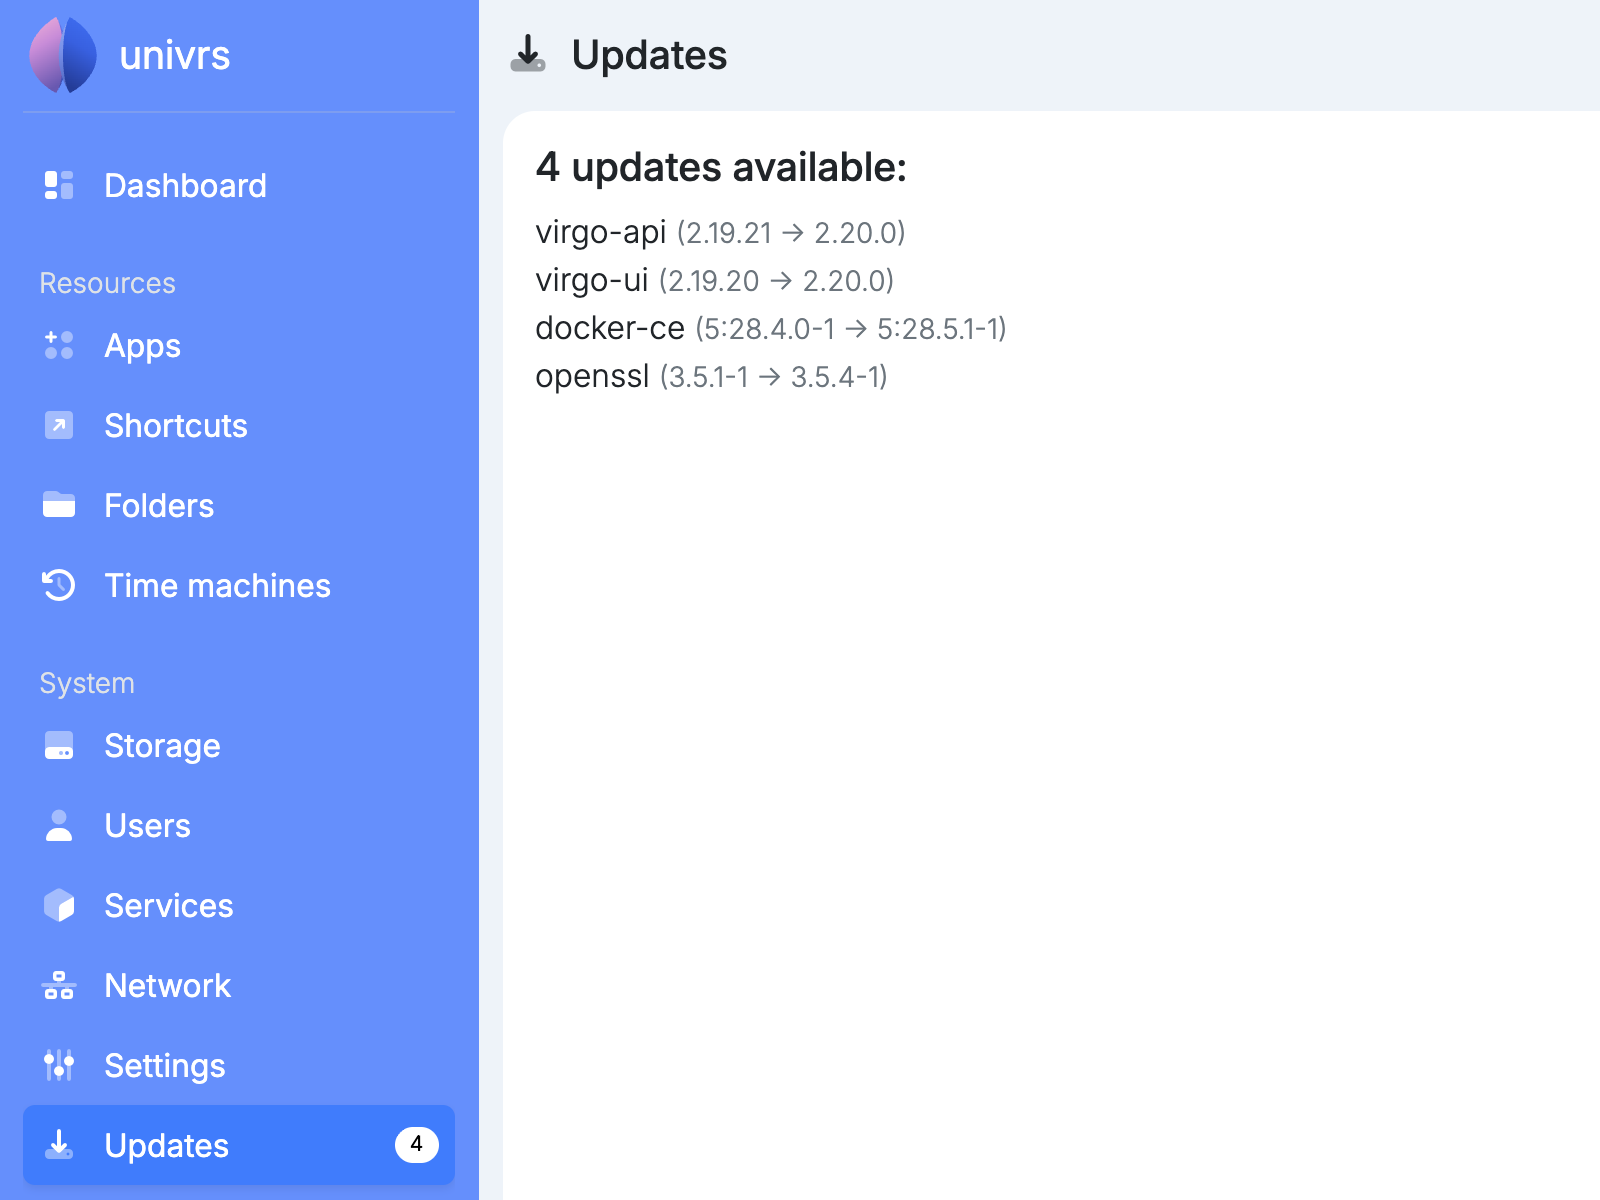
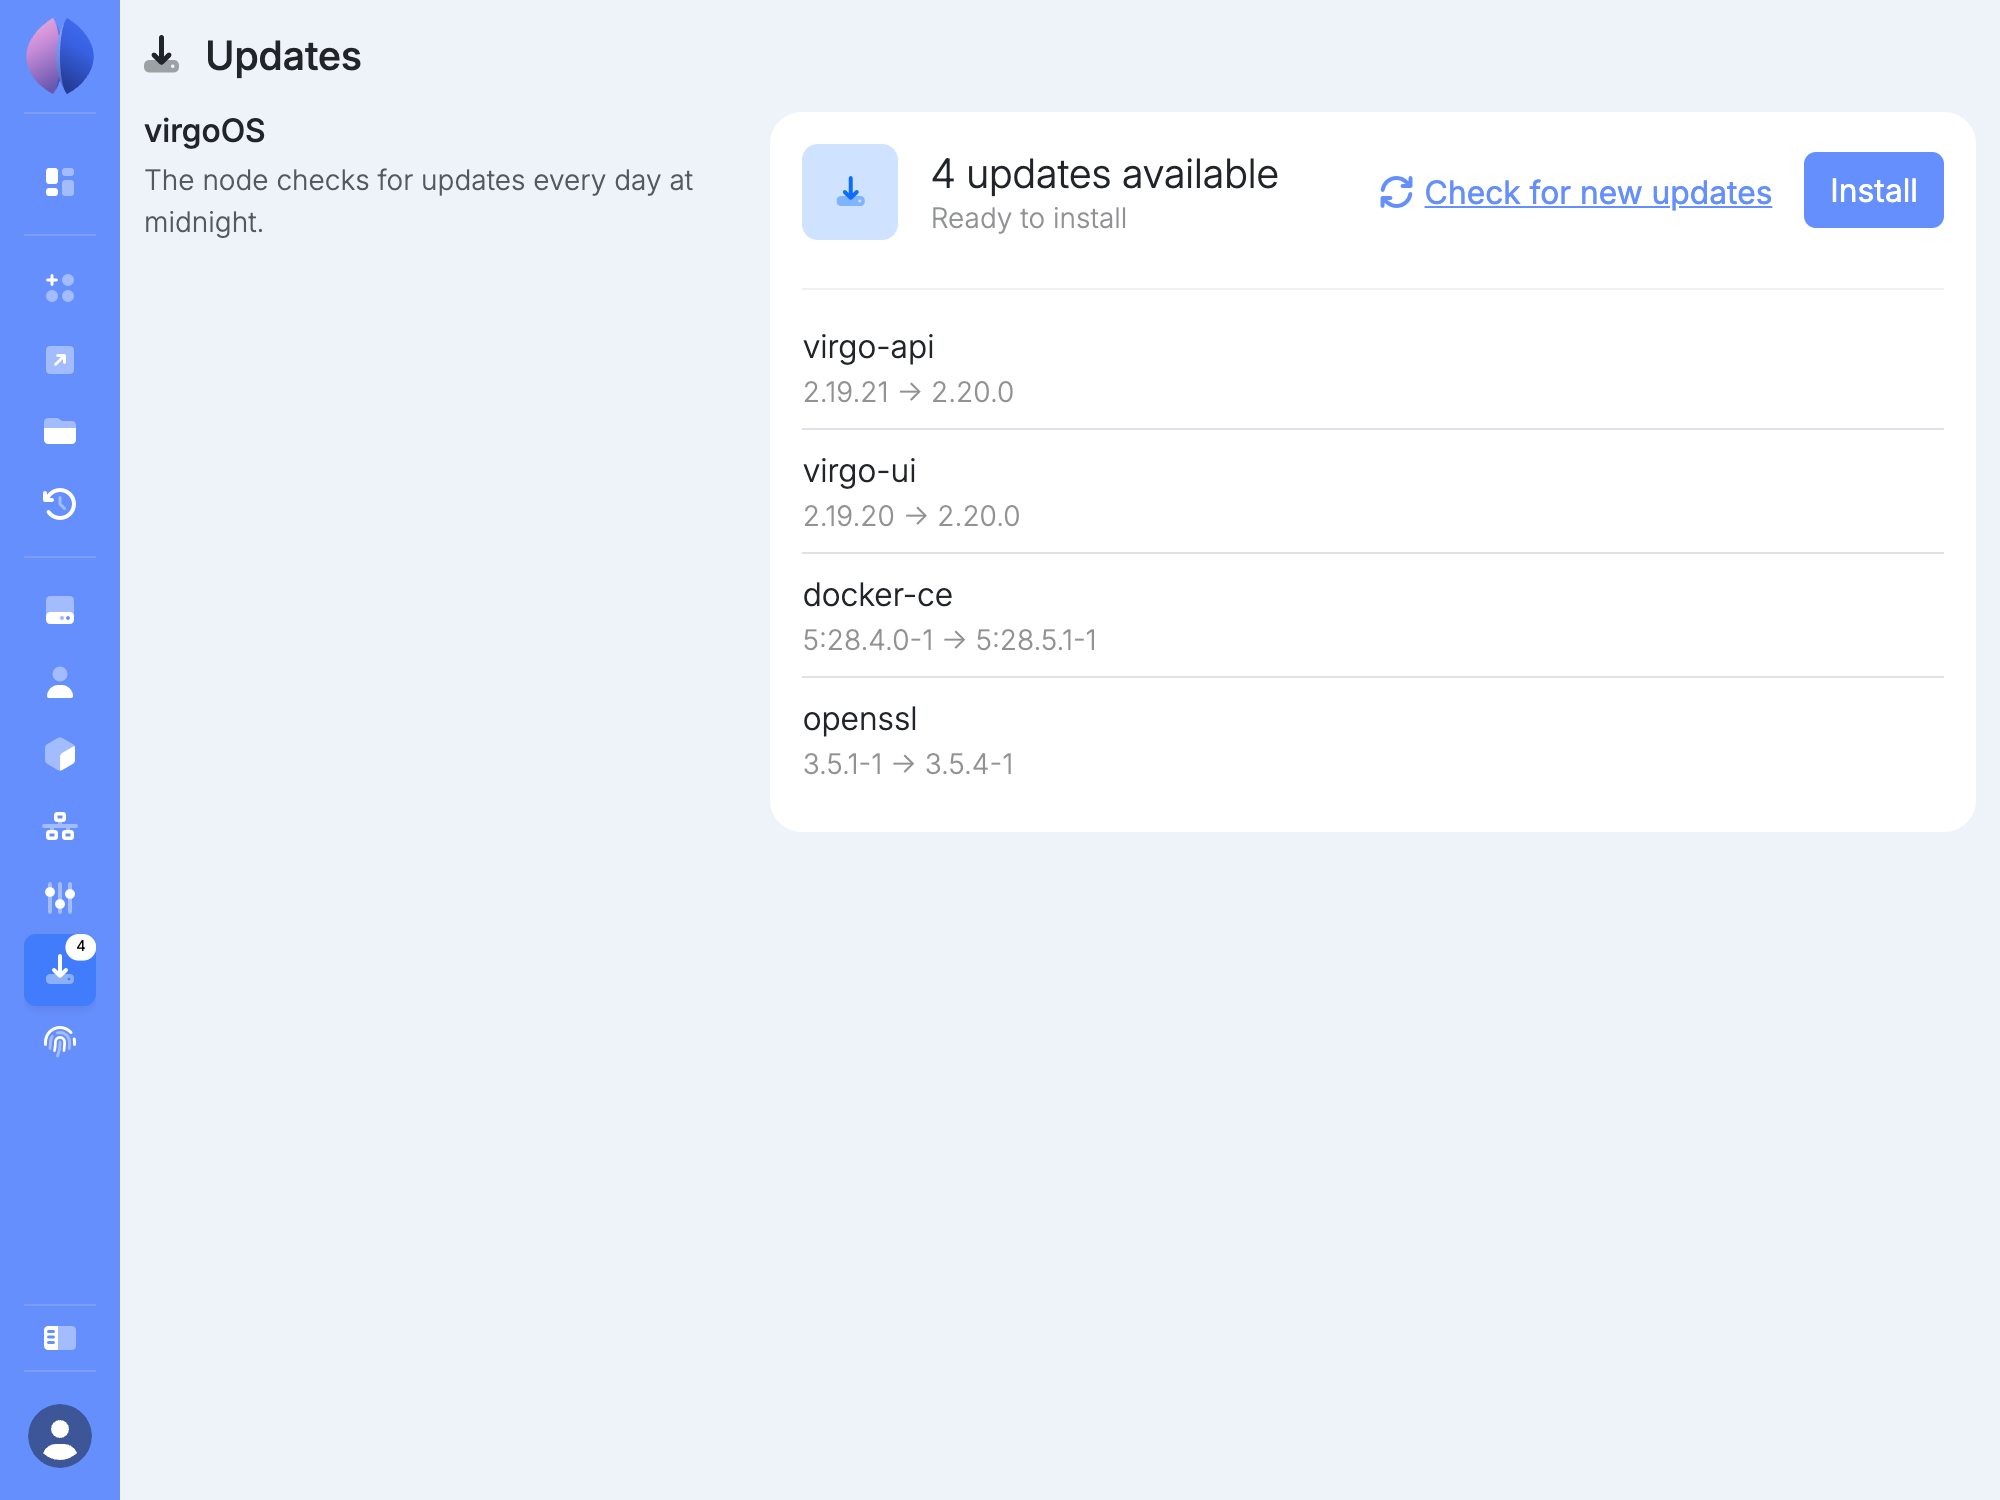
feat(home): refresh the updates screenshot and end the terminal on a new prompt

diff --git a/src/styles/univrs.css b/src/styles/univrs.css
@@ -1264,8 +1264,17 @@ a {
 	animation: term-blink 1s steps(1) infinite;
 }
 
+.term-typed + .term-cursor {
+	visibility: hidden;
+	animation: none;
+}
+
 .term.is-typing .term-typed {
 	animation: term-type 1.1s steps(12) 0.5s both;
+}
+
+.term.is-typing .term-typed + .term-cursor {
+	animation: term-enter 1.9s steps(1) both;
 }
 
 .term.is-typing .term-out {
@@ -1279,6 +1288,16 @@ a {
 
 	to {
 		width: 12ch;
+	}
+}
+
+@keyframes term-enter {
+	from {
+		visibility: visible;
+	}
+
+	to {
+		visibility: hidden;
 	}
 }
 
